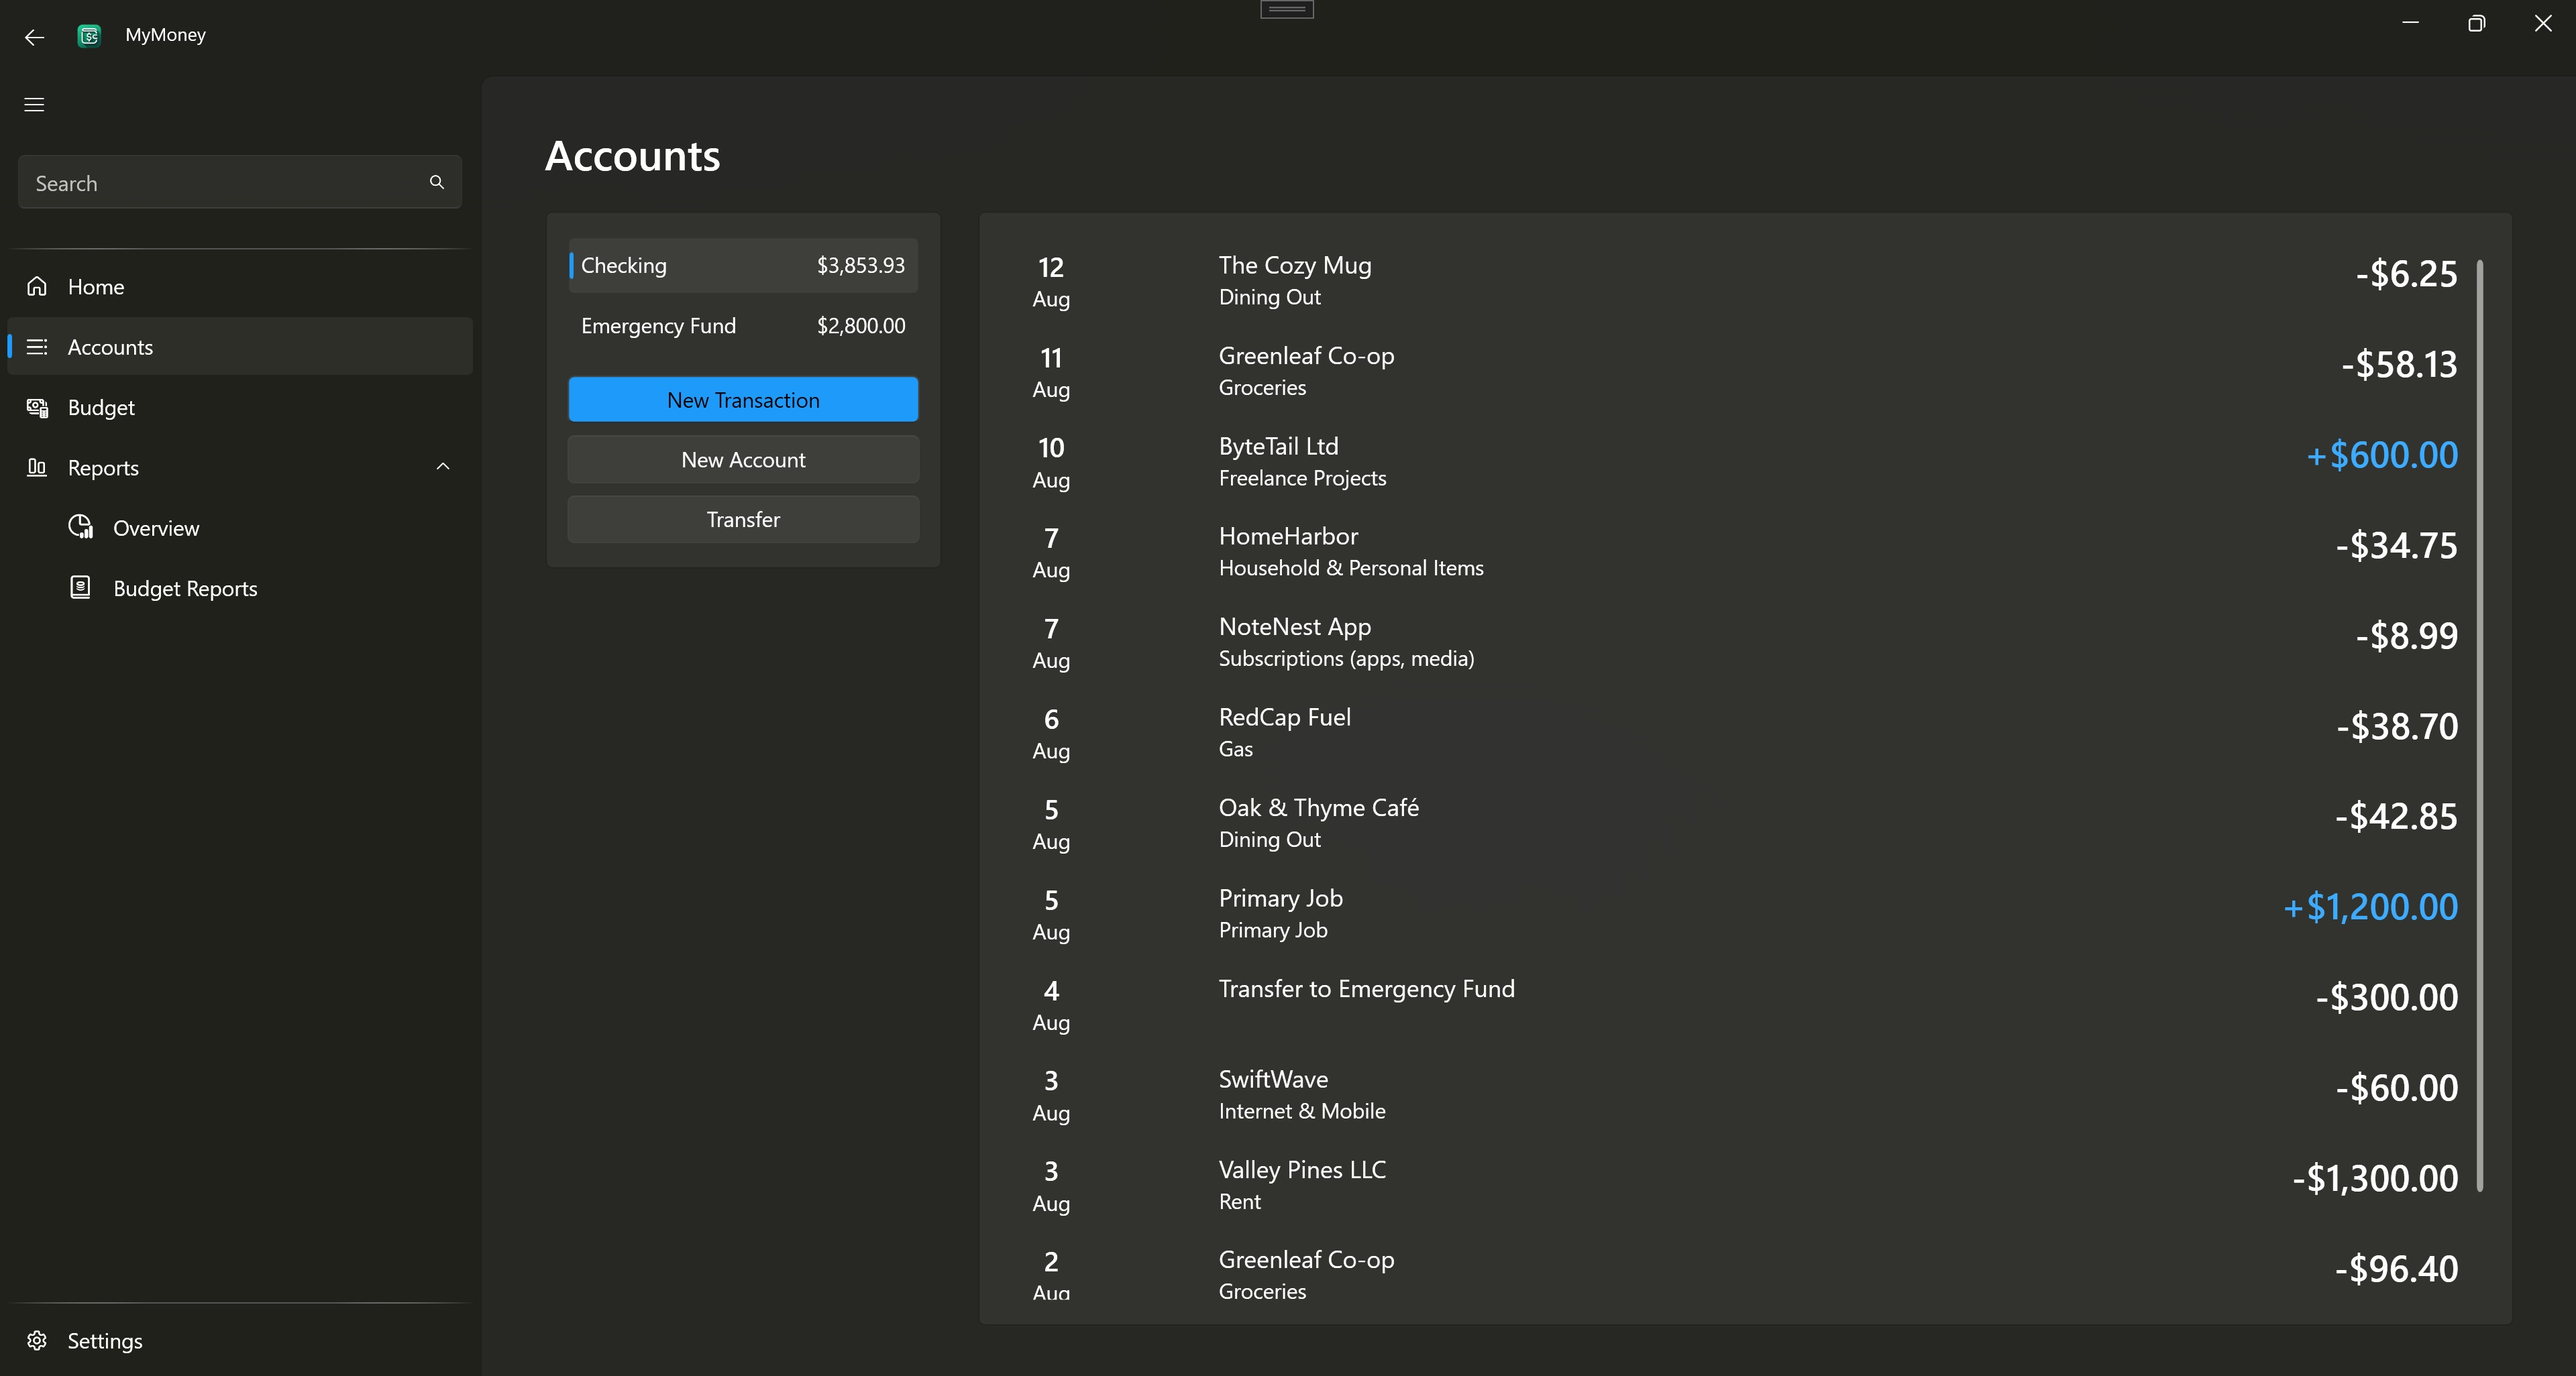
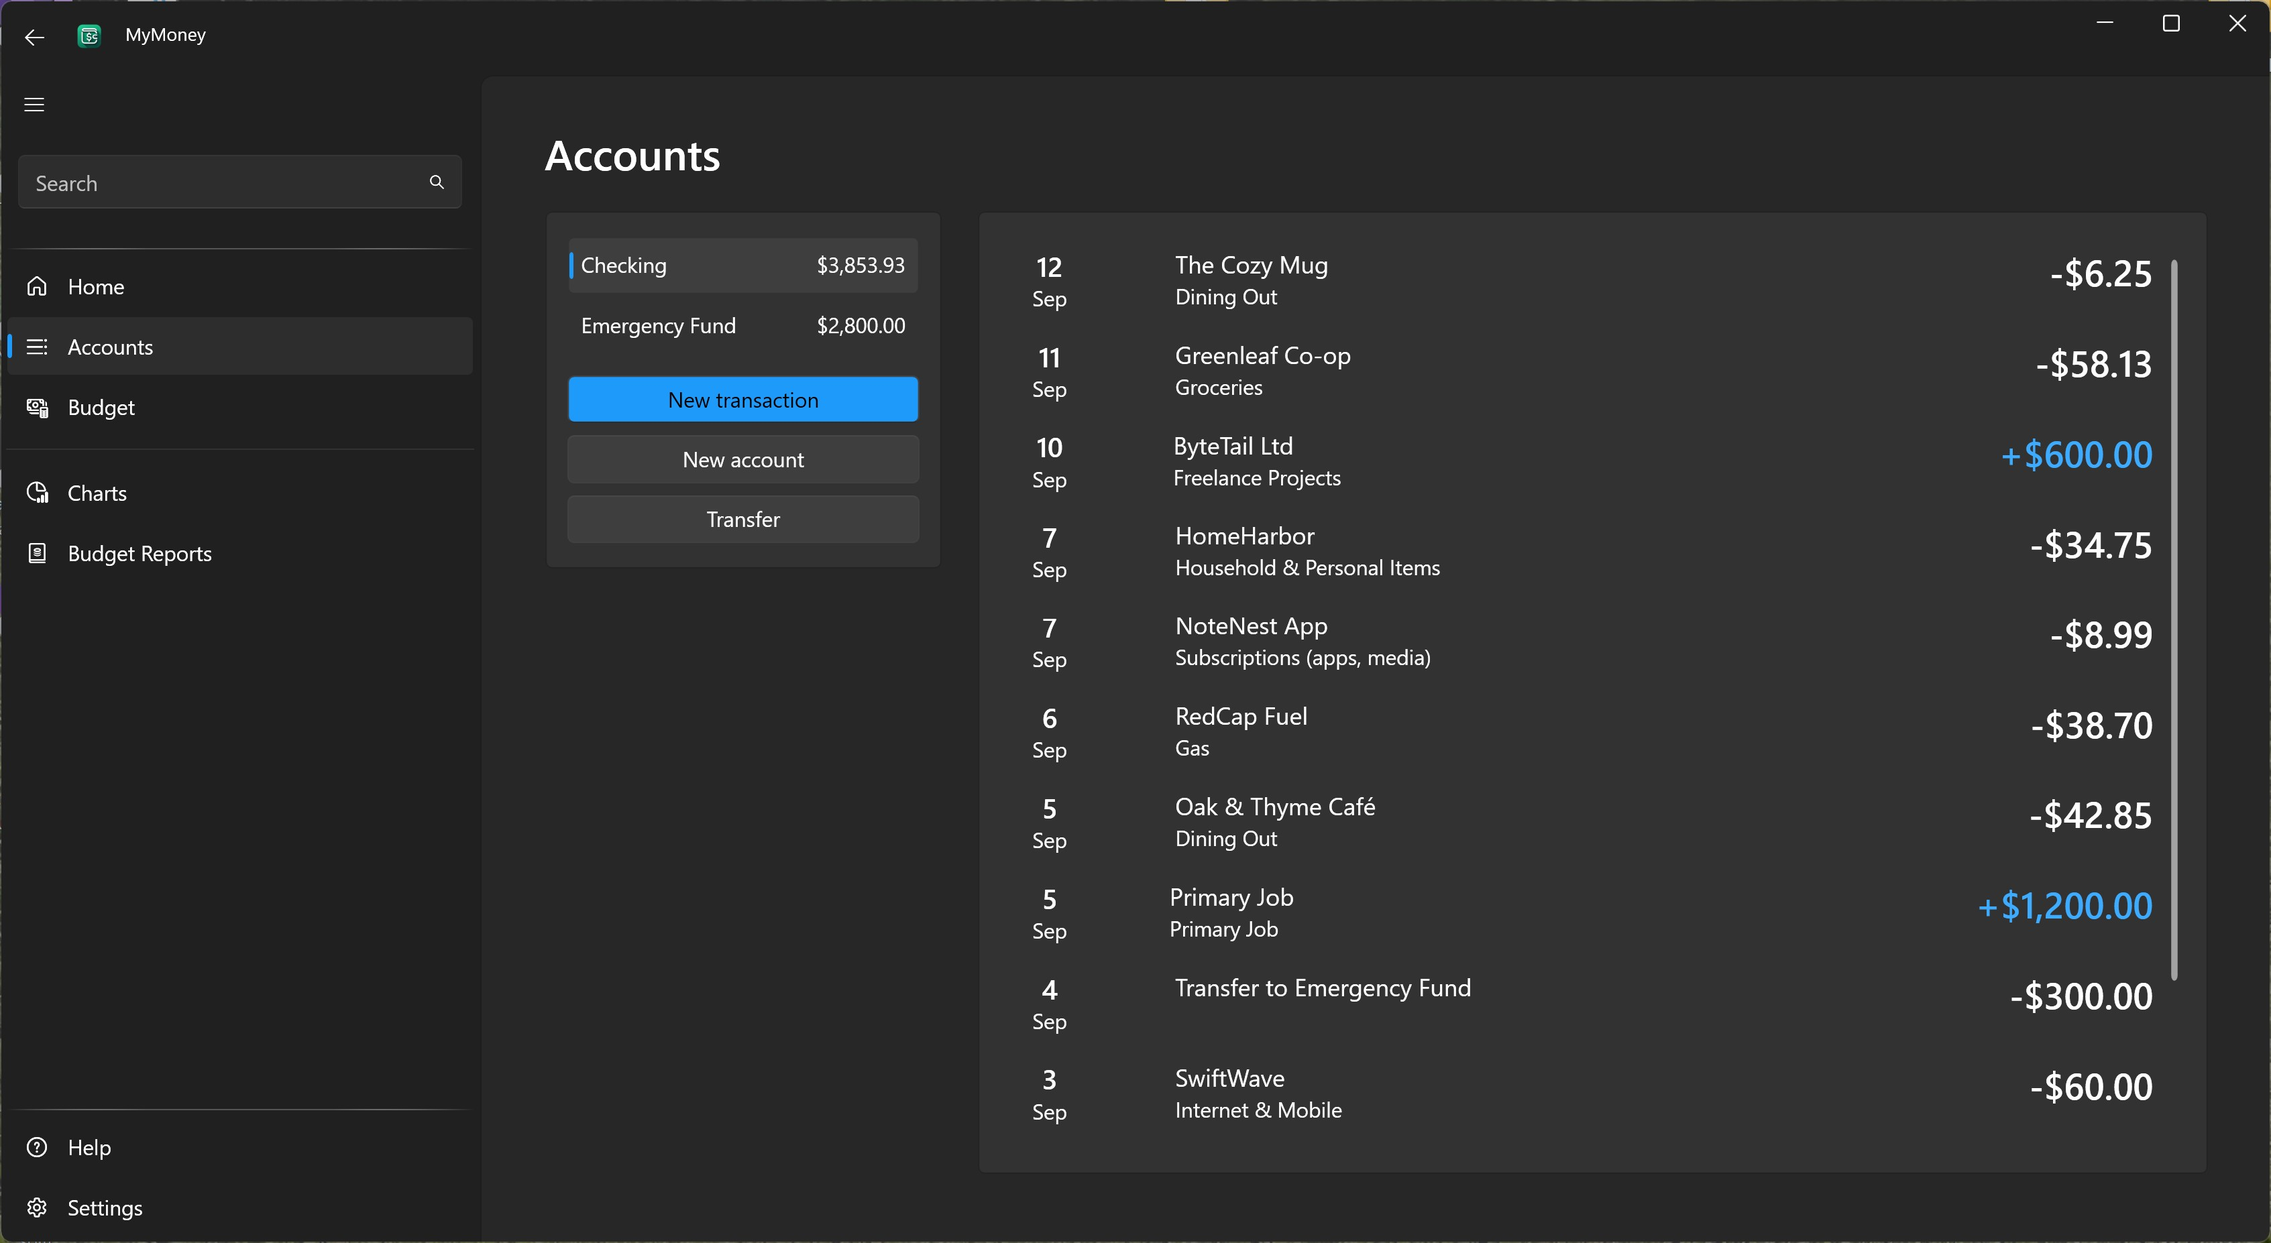
Update readme and screenshots

diff --git a/README.md b/README.md
@@ -30,8 +30,8 @@ This project is licensed under the MIT License. See the LICENSE.txt file for mor
 
 ## Screenshots
 
-### Dashboard
-![Dashboard](Screenshots/dashboard.jpg)
+### Light/Dark modes
+![Dashboard](Screenshots/light-dark-modes.jpg)
 
 ### Accounts
 ![Accounts](Screenshots/accounts.jpg)
@@ -39,5 +39,5 @@ This project is licensed under the MIT License. See the LICENSE.txt file for mor
 ### Budget
 ![Budget](Screenshots/budget.jpg)
 
-### Reports
-![Reports](Screenshots/reports.gif)
+### Charts
+![Charts](Screenshots/charts.jpg)

diff --git a/Docs/docs/tutorials/first-month-workflow.md b/Docs/docs/tutorials/first-month-workflow.md
@@ -83,7 +83,7 @@ Reports show how your plan compares to reality.
     - Income vs. Expenses chart for the current month.
 - **Budget Reports**:  
     - View past months’ budgets.  
-- **Reports**:  
+- **Charts**:  
     - Income vs. Expense chart (last 12 months).  
     - Net worth chart (time period selectable).  
 
